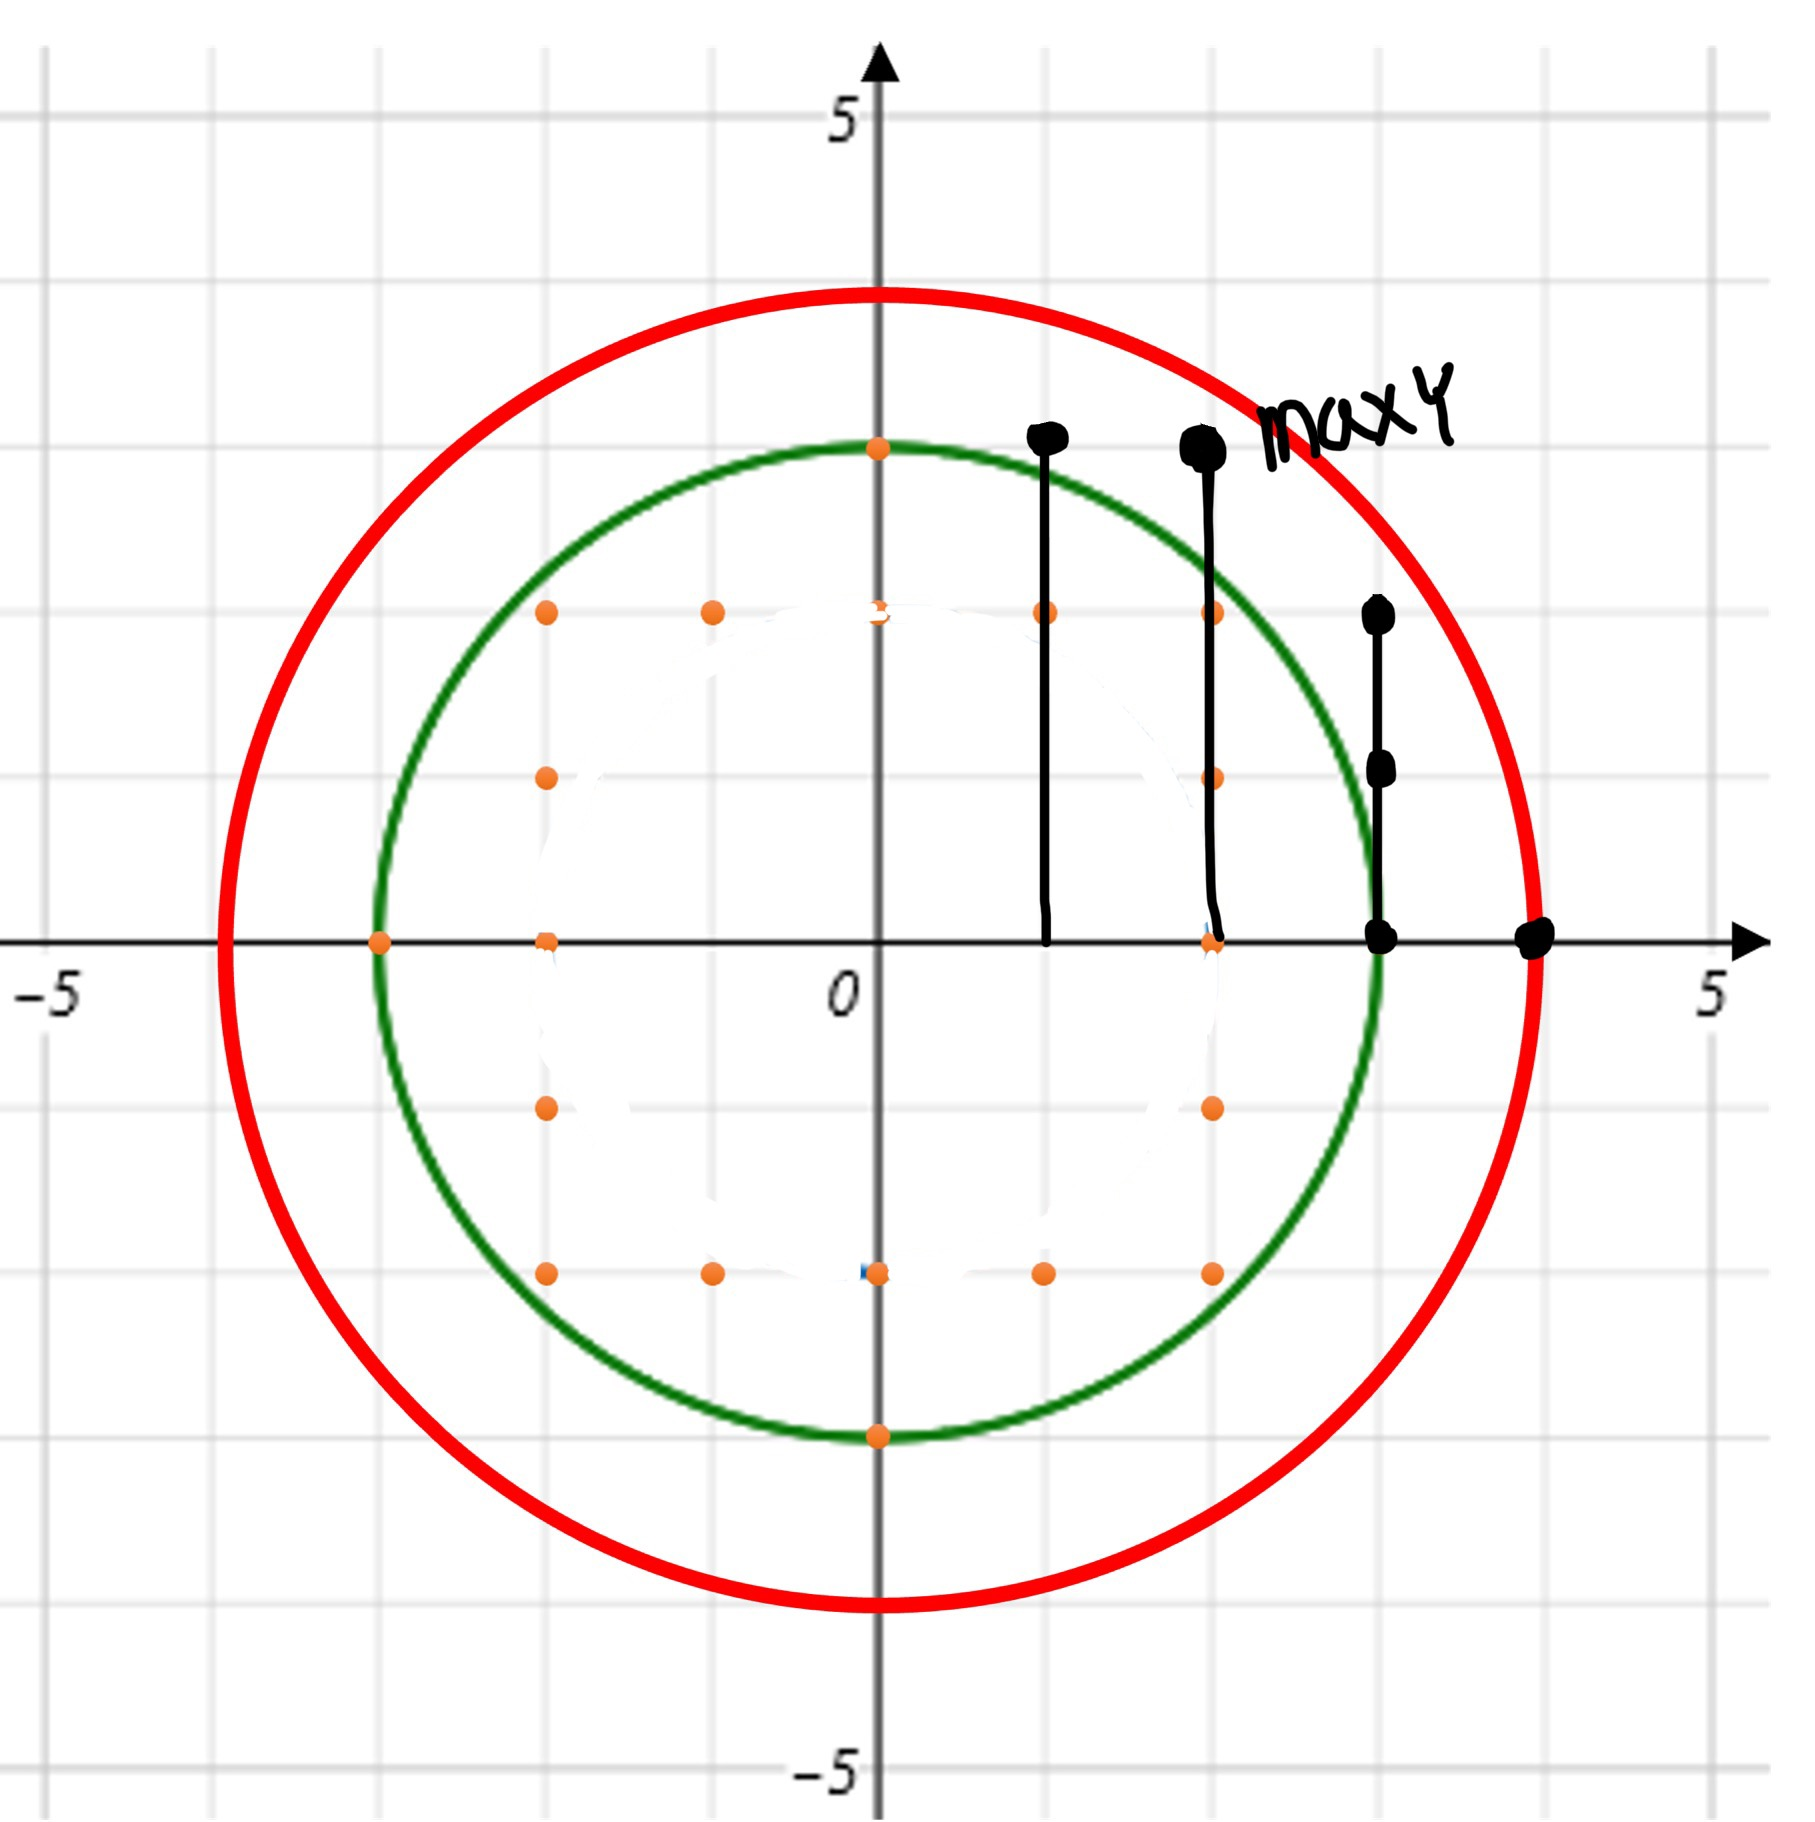
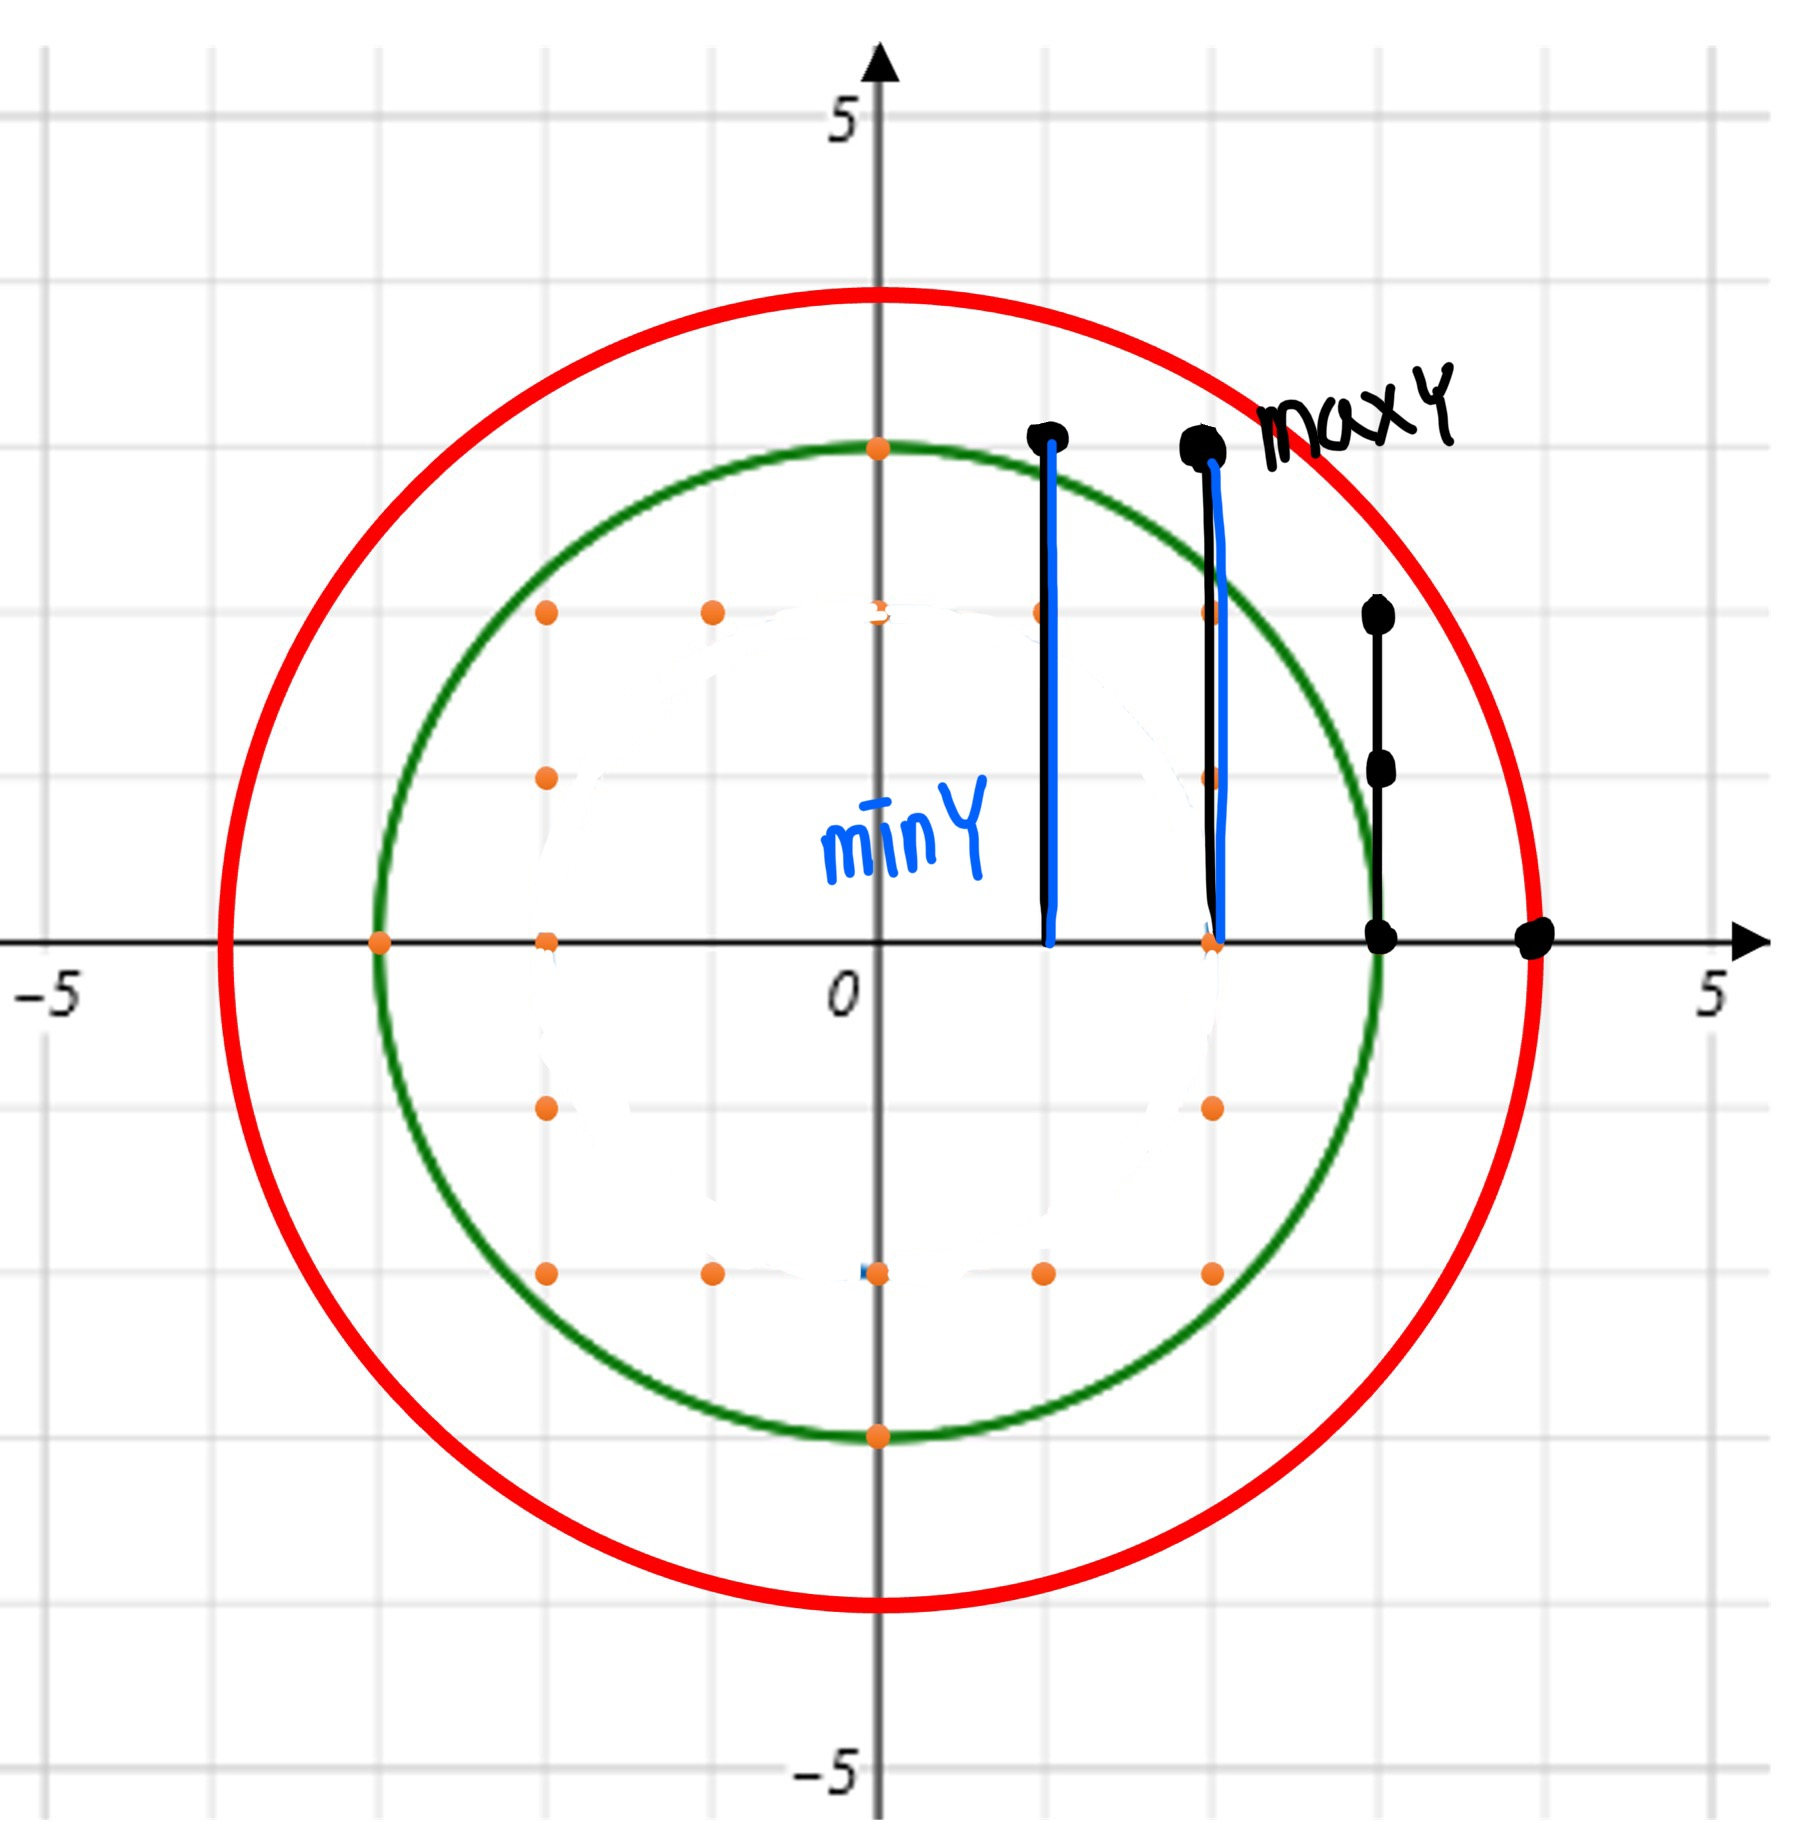
[PGS] 두 원 사이의 정수 쌍 / Level 2 / X / 수학

Changed region(s): [[0.432, 0.2459, 0.5862, 0.5225], [0.6479, 0.2459, 0.6788, 0.5225]]

diff --git a/두 원 사이의 정수 쌍.py b/두 원 사이의 정수 쌍.py
@@ -1,0 +1,14 @@
+import math
+
+def solution(r1, r2):
+    answer = 0
+    
+    for x in range(1, r2+1):
+        maxY = math.floor((r2**2 - x**2)**0.5)
+        minY = 0
+        if x < r1:
+            minY = math.ceil((r1**2 - x**2)**0.5)
+        
+        answer += maxY - minY + 1
+        
+    return answer * 4
